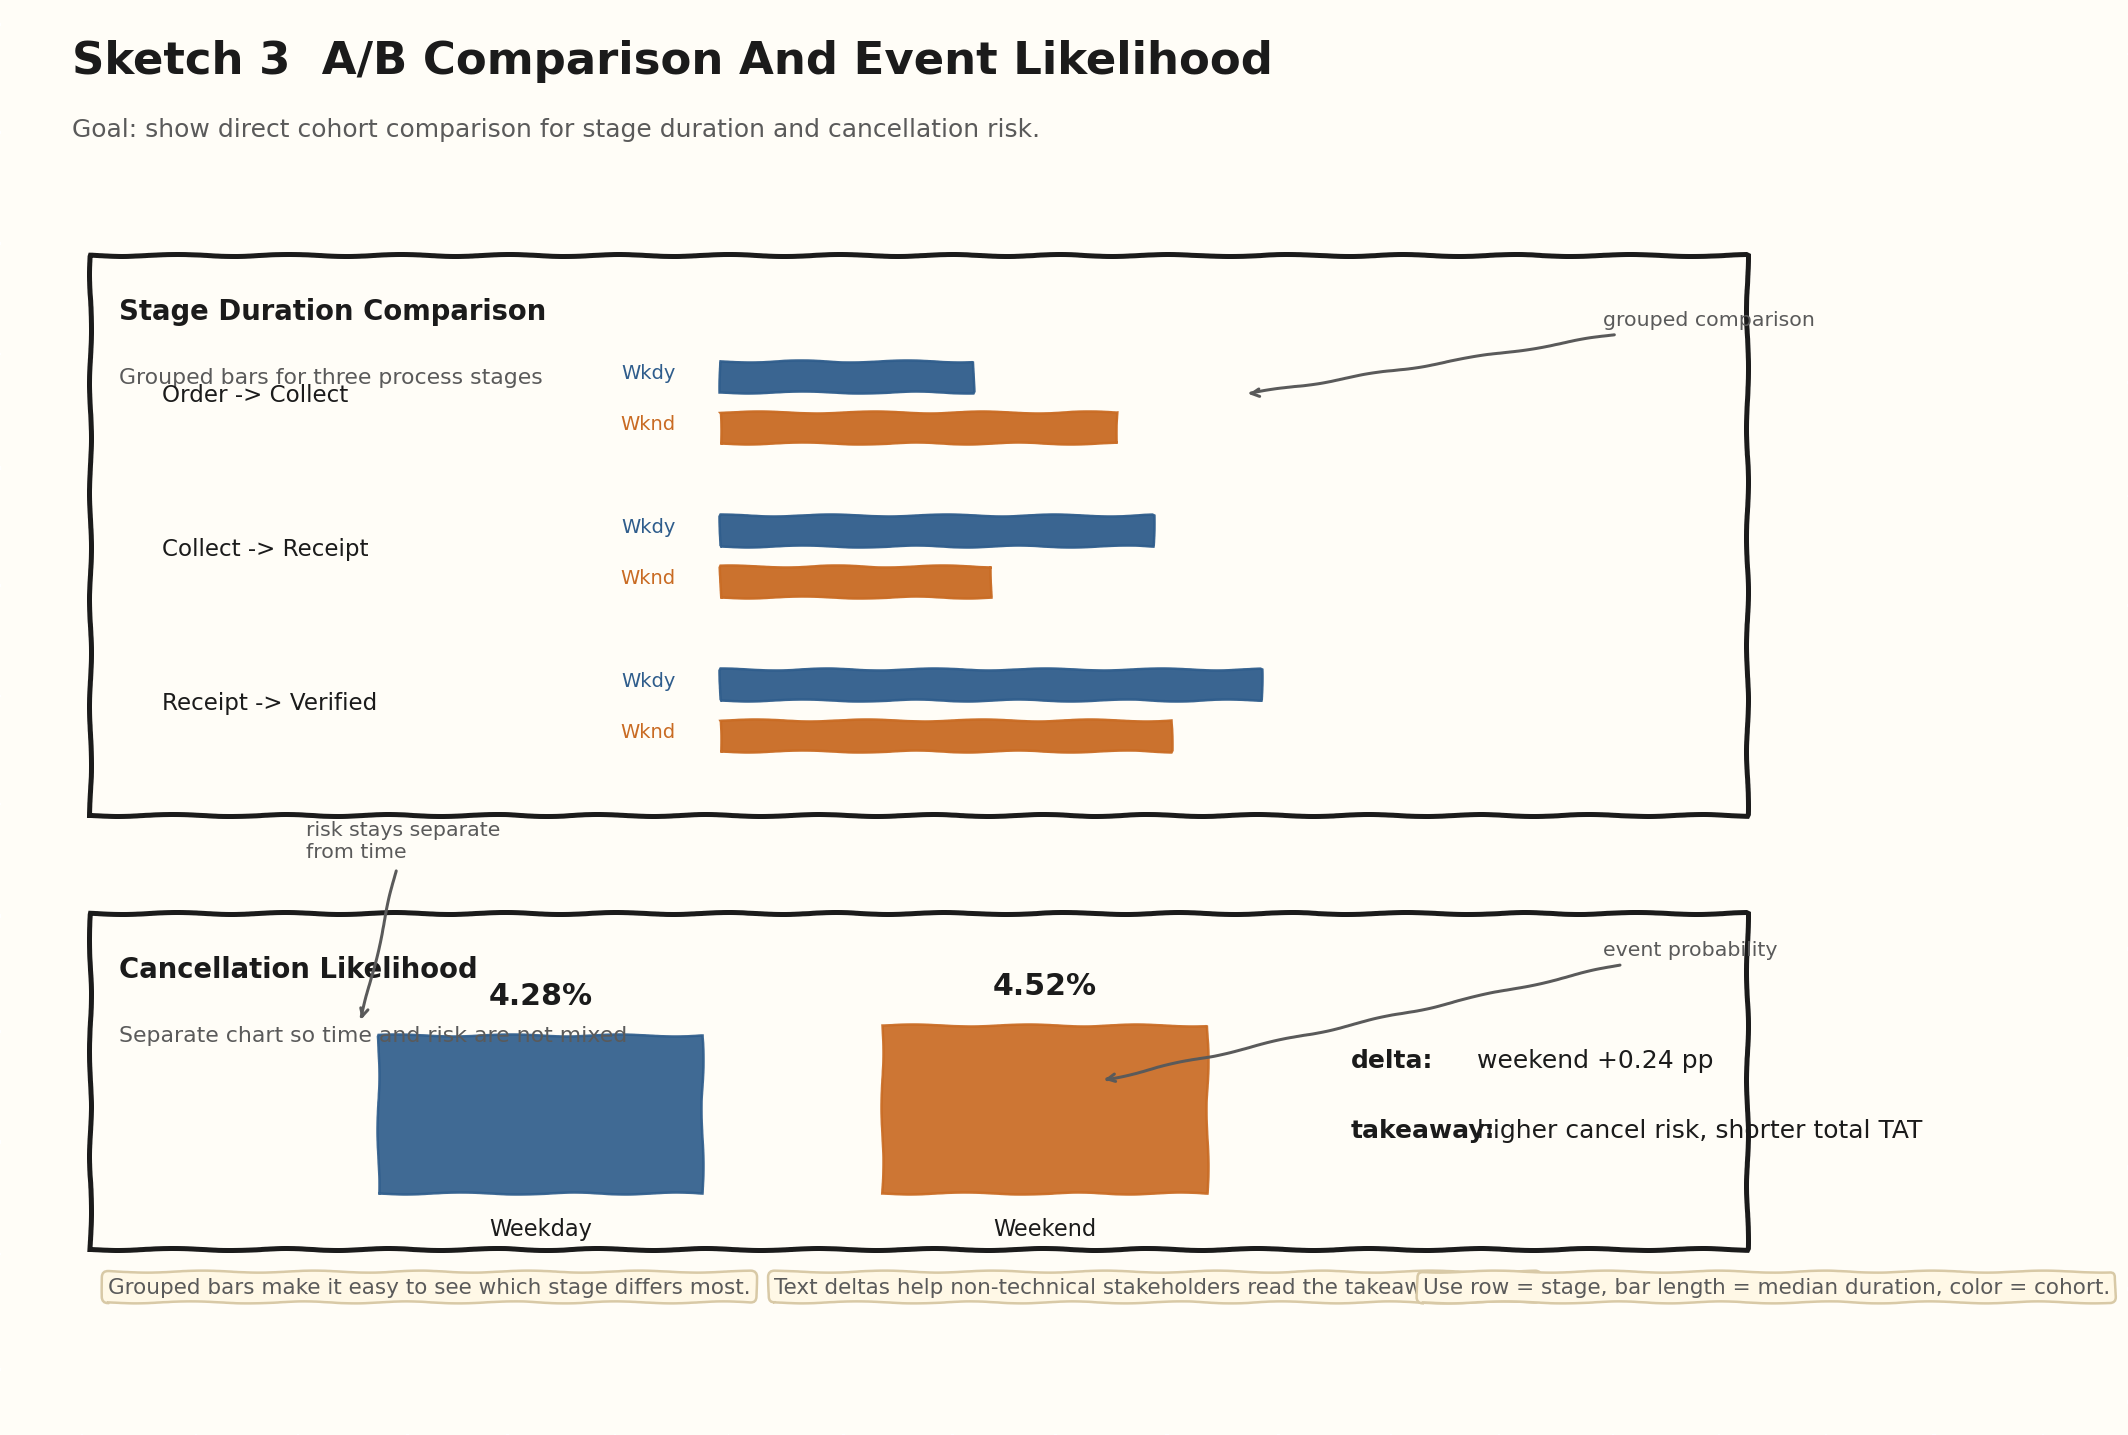
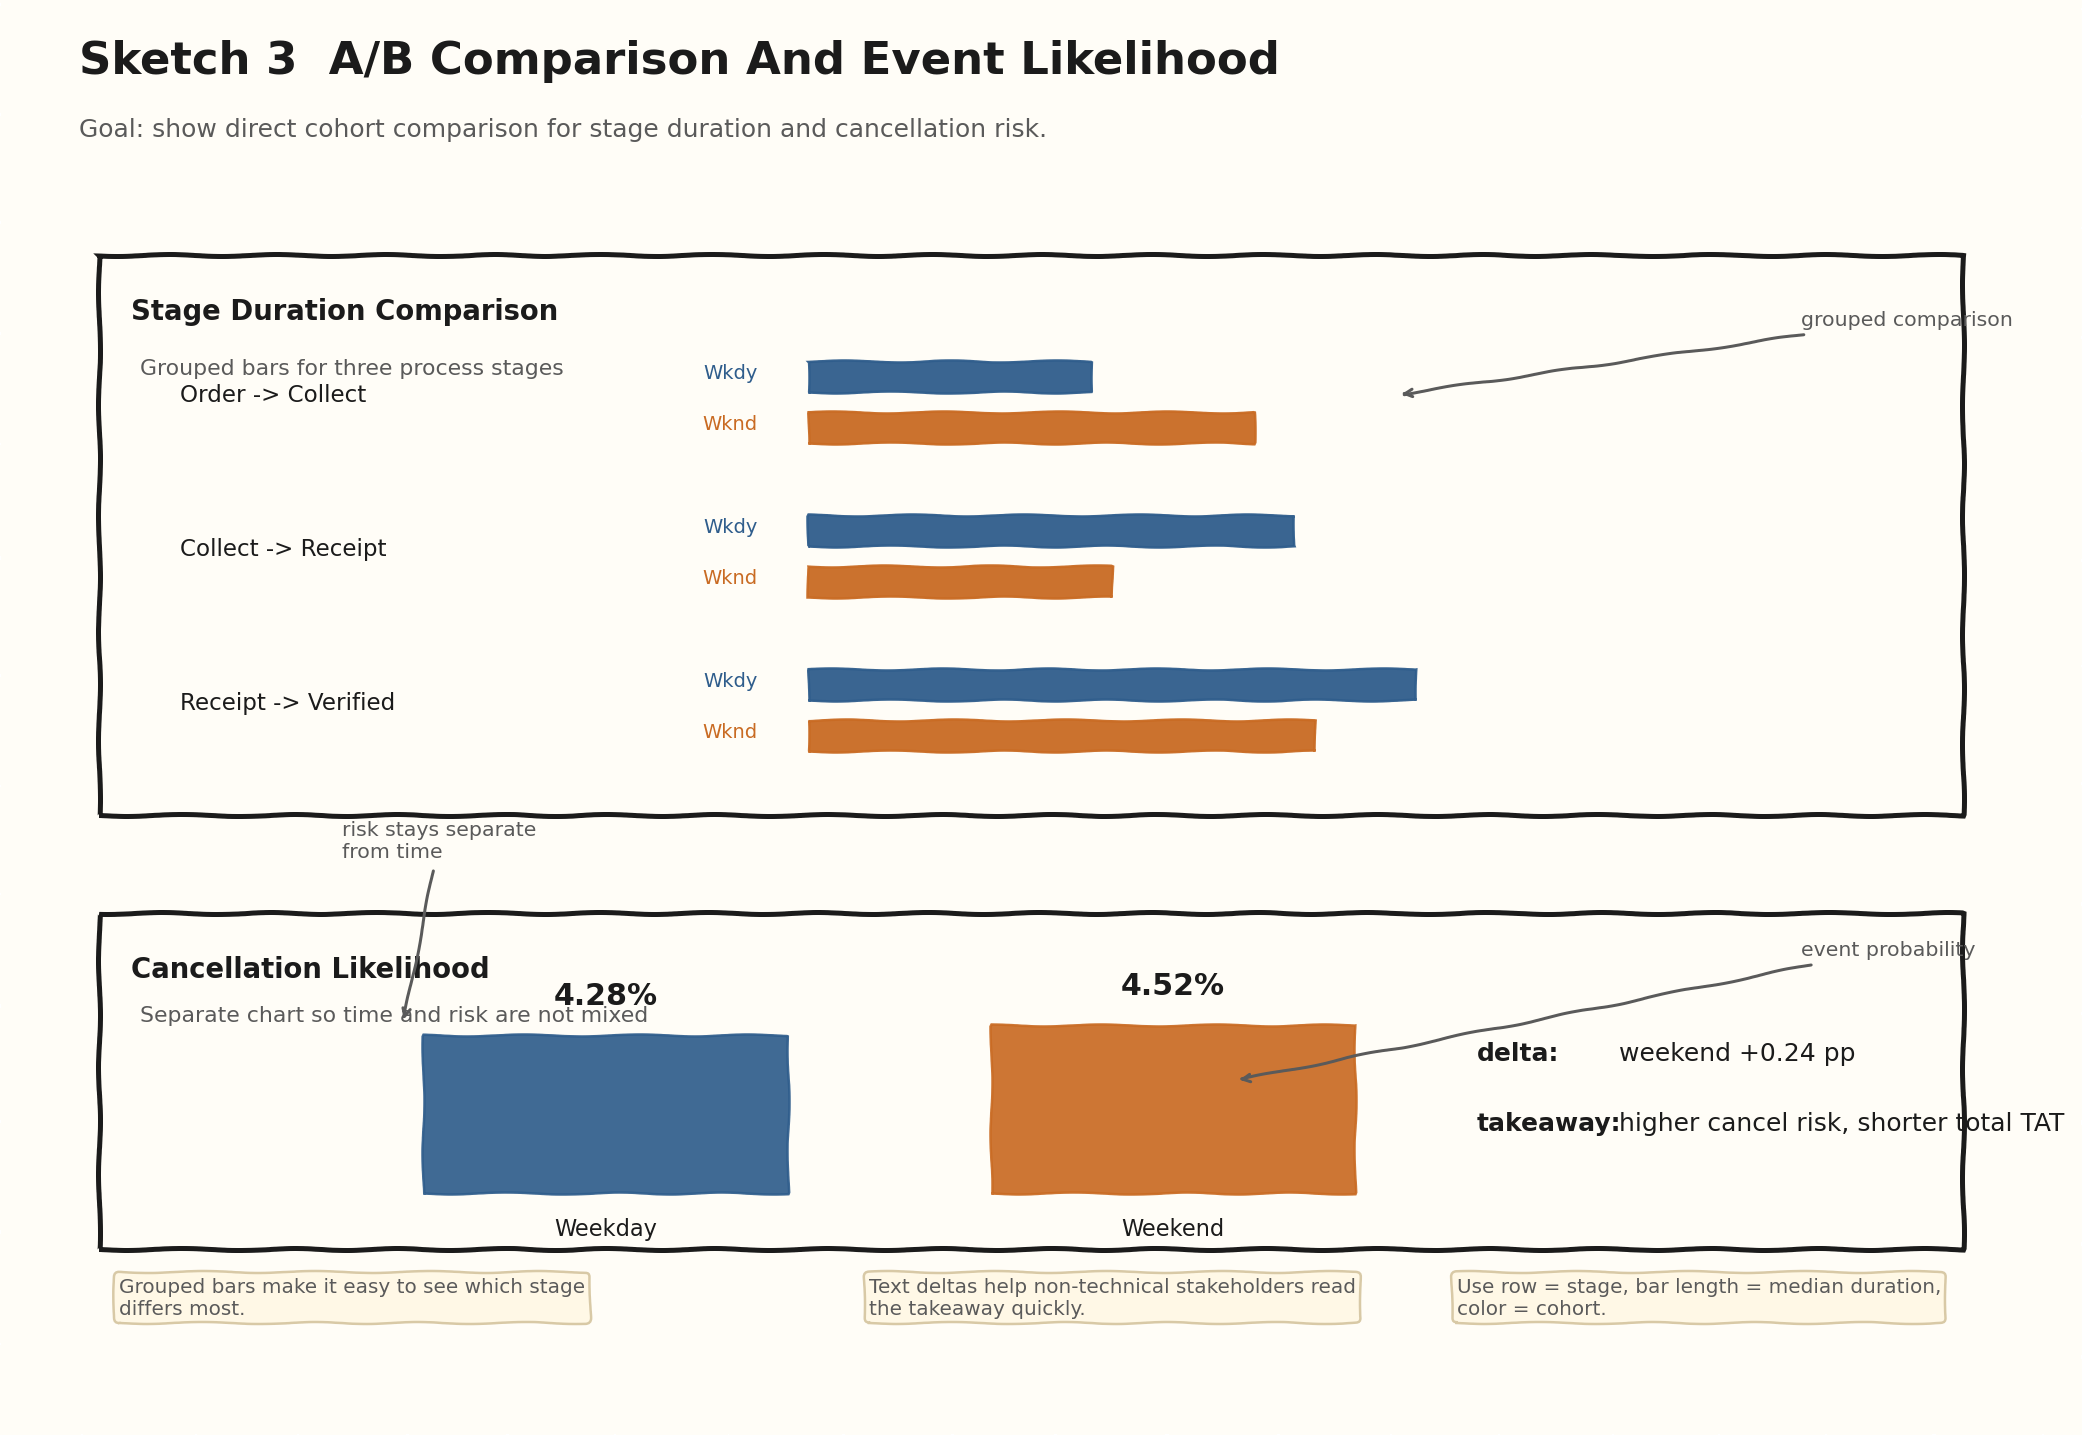
bug fix: sketch generation revise

diff --git a/scripts/generate_sketches.py b/scripts/generate_sketches.py
@@ -2,6 +2,7 @@
 from __future__ import annotations
 
 import argparse
+import textwrap
 from pathlib import Path
 
 import matplotlib
@@ -58,11 +59,12 @@ def box(ax, x, y, w, h, title, body=None, color=INK, lw=2):
 
 
 def note(ax, x, y, text):
+    wrapped = textwrap.fill(text, width=48)
     ax.text(
         x,
         y,
-        text,
-        fontsize=8.6,
+        wrapped,
+        fontsize=8.0,
         color=NOTE,
         va="top",
         bbox={"boxstyle": "round,pad=0.25", "facecolor": "#FFF8E6", "edgecolor": "#D8C9A6"},
@@ -97,58 +99,65 @@ def sketch_1_dashboard(output_path: Path):
         color=NOTE,
     )
 
-    box(ax, 3, 15, 20, 68, "Filters", "cohort, test code, street, dept, date range")
-    box(ax, 25, 48, 47, 35, "Average Journey Timeline", "ordered -> collected -> receipt -> verified")
-    box(ax, 74, 48, 23, 35, "A/B KPI Summary", "median TAT, delta, cancel rate, n")
-    box(ax, 25, 15, 47, 29, "Stage Duration Comparison", "order->collect, collect->receipt, receipt->verified")
-    box(ax, 74, 15, 23, 29, "Cancellation Likelihood", "weekday % vs weekend %")
-    box(ax, 3, 5, 94, 7, "Details on Demand", "selected cohort notes, subset description, caveats")
+    box(ax, 3, 15, 20, 68, "Filters")
+    box(ax, 25, 48, 47, 35, "Average Journey Timeline")
+    box(ax, 74, 48, 23, 35, "A/B KPI Summary")
+    box(ax, 25, 15, 47, 29, "Stage Duration Comparison")
+    box(ax, 74, 15, 23, 29, "Cancellation Likelihood")
+    box(ax, 3, 5, 94, 7, "Details on Demand")
 
-    for y, label in zip([74, 68, 62, 56, 50], ["weekday/weekend", "test code", "event street", "performing dept", "date range"]):
-        ax.text(6, y, f"- {label}", fontsize=9)
+    ax.text(6, 73.5, "cohort", fontsize=8.5, color=NOTE)
+    ax.text(6, 70.5, "- weekday / weekend", fontsize=9)
+    for y, label in zip([64, 57, 50, 43], ["test code", "event street", "performing dept", "date range"]):
+        ax.text(7.2, y, f"- {label}", fontsize=9)
+
+    ax.text(27.5, 73.5, "median elapsed hours since order", fontsize=8.4, color=NOTE)
+    ax.text(27.5, 69.8, "ordered -> collected -> receipt -> verified", fontsize=8.8, color=NOTE)
 
     timeline_y = [71, 60]
     labels = ["Weekday", "Weekend"]
-    xs = [[31, 39, 49, 63], [31, 43, 50, 66]]
+    xs = [[33, 40, 50, 63], [33, 44, 51, 66]]
     colors = [WEEKDAY_COLOR, WEEKEND_COLOR]
     for y, lab, row_xs, color in zip(timeline_y, labels, xs, colors):
         ax.text(27.5, y, lab, fontsize=9.5, fontweight="bold", color=color, va="center")
         ax.plot(row_xs, [y] * len(row_xs), color=color, linewidth=2.2)
         ax.scatter(row_xs, [y] * len(row_xs), s=28, color=color, zorder=3)
     for x, lab in zip(xs[0], ["ordered", "collected", "receipt", "verified"]):
-        ax.text(x - 2, 53, lab, fontsize=7.8, rotation=10)
+        ax.text(x - 1.5, 53.5, lab, fontsize=7.6, rotation=10)
 
-    ax.text(77, 73, "Weekday", fontsize=9.5, fontweight="bold", color=WEEKDAY_COLOR)
-    ax.text(77, 68, "Weekend", fontsize=9.5, fontweight="bold", color=WEEKEND_COLOR)
-    ax.text(77, 62, "Median TAT", fontsize=9)
-    ax.text(90, 62, "1.75h / 1.10h", fontsize=9, ha="right")
-    ax.text(77, 57, "Cancel rate", fontsize=9)
-    ax.text(90, 57, "4.28% / 4.52%", fontsize=9, ha="right")
-    ax.text(77, 52, "Delta", fontsize=9)
-    ax.text(90, 52, "weekend -0.65h", fontsize=9, ha="right")
+    ax.text(77, 73, "A: Weekday", fontsize=9.2, fontweight="bold", color=WEEKDAY_COLOR)
+    ax.text(77, 68, "B: Weekend", fontsize=9.2, fontweight="bold", color=WEEKEND_COLOR)
+    ax.text(77, 61.5, "Median TAT", fontsize=8.8)
+    ax.text(95, 61.5, "1.75h / 1.10h", fontsize=8.8, ha="right")
+    ax.text(77, 56.5, "Cancel rate", fontsize=8.8)
+    ax.text(95, 56.5, "4.28% / 4.52%", fontsize=8.8, ha="right")
+    ax.text(77, 51.5, "Delta", fontsize=8.8)
+    ax.text(95, 51.5, "weekend -0.65h", fontsize=8.8, ha="right")
 
     stage_names = ["Order->Collect", "Collect->Receipt", "Receipt->Verified"]
-    centers = [37, 31, 25]
-    weekday_vals = [10, 21, 28]
-    weekend_vals = [18, 13, 22]
+    centers = [36, 29.5, 23]
+    weekday_vals = [8.5, 18, 24]
+    weekend_vals = [15, 10.5, 19]
     for y, stage, wv, ev in zip(centers, stage_names, weekday_vals, weekend_vals):
-        ax.text(27.5, y + 1.6, stage, fontsize=8.6)
-        ax.add_patch(Rectangle((48, y), wv, 1.8, color=WEEKDAY_COLOR, alpha=0.9))
-        ax.add_patch(Rectangle((48, y - 2.7), ev, 1.8, color=WEEKEND_COLOR, alpha=0.9))
+        ax.text(27.5, y + 1.3, stage, fontsize=8.4)
+        ax.add_patch(Rectangle((45.5, y), wv, 1.7, color=WEEKDAY_COLOR, alpha=0.9))
+        ax.add_patch(Rectangle((45.5, y - 2.6), ev, 1.7, color=WEEKEND_COLOR, alpha=0.9))
 
-    ax.add_patch(Rectangle((79, 24), 8.5, 10.5, color=WEEKDAY_COLOR, alpha=0.92))
-    ax.add_patch(Rectangle((89, 24), 8.5, 11.1, color=WEEKEND_COLOR, alpha=0.92))
-    ax.text(83.2, 21.5, "Weekday", fontsize=8.3, ha="center")
-    ax.text(93.2, 21.5, "Weekend", fontsize=8.3, ha="center")
+    ax.text(77, 35, "weekday % vs weekend %", fontsize=8.4, color=NOTE)
+    ax.add_patch(Rectangle((79, 23.5), 7.4, 10.5, color=WEEKDAY_COLOR, alpha=0.92))
+    ax.add_patch(Rectangle((88.5, 23.5), 7.4, 11.1, color=WEEKEND_COLOR, alpha=0.92))
+    ax.text(82.7, 21.2, "Weekday", fontsize=7.8, ha="center")
+    ax.text(92.2, 21.2, "Weekend", fontsize=7.8, ha="center")
 
     arrow_label(ax, 12, 86, 19.5, 76, "interactive filters")
     arrow_label(ax, 57, 88, 51, 73.5, "main answer lives here")
     arrow_label(ax, 94, 85, 90, 65, "fast summary")
     arrow_label(ax, 60, 8.5, 50, 10.5, "details on demand")
 
-    note(ax, 5, 97, "Main timeline is centered because the client asked for an inspectable average timeline.")
-    note(ax, 65, 97, "Cancellation is kept separate from timing so risk is not confused with duration.")
-    note(ax, 6, 13, "Use color for cohort. Use x-position and bar length for time.")
+    note(ax, 5, 10.5, "Use color for cohort. Use x-position and bar length for time.")
+    note(ax, 34, 10.5, "Main timeline is centered because the client asked for an inspectable average timeline.")
+    note(ax, 71, 10.5, "Cancellation is kept separate from timing so risk is not confused with duration.")
+    ax.text(5, 2.8, "selected cohort notes, subset description, caveats", fontsize=8.3, color=NOTE)
 
     save(fig, output_path)
 
@@ -198,10 +207,10 @@ def sketch_2_timeline(output_path: Path):
     arrow_label(ax, 77, 31, 56, 38, "shorter total time here")
     arrow_label(ax, 64, 87, 62, 78, "shared time axis")
 
-    note(ax, 5, 25, "A milestone timeline preserves sequence better than stacked bars.")
-    note(ax, 42, 25, "Distance between points shows where the delay occurs.")
-    note(ax, 73, 25, "This directly answers the client's request for a graphic timeline.")
-    note(ax, 5, 16, "Alternative considered: stacked stage bars. Not chosen as the main view because the event sequence is less explicit.")
+    note(ax, 5, 20, "A milestone timeline preserves sequence better than stacked bars.")
+    note(ax, 5, 11.5, "Alternative considered: stacked stage bars. Not chosen as the main view because the event sequence is less explicit.")
+    note(ax, 55, 20, "Distance between points shows where the delay occurs.")
+    note(ax, 55, 11.5, "This directly answers the client's request for a graphic timeline.")
 
     save(fig, output_path)
 
@@ -217,7 +226,8 @@ def sketch_3_ab(output_path: Path):
         color=NOTE,
     )
 
-    box(ax, 4, 43, 92, 40, "Stage Duration Comparison", "Grouped bars for three process stages")
+    box(ax, 4, 43, 92, 40, "Stage Duration Comparison")
+    ax.text(6, 74.5, "Grouped bars for three process stages", fontsize=8.8, color=NOTE)
     stages = ["Order -> Collect", "Collect -> Receipt", "Receipt -> Verified"]
     y_rows = [72, 61, 50]
     weekday_vals = [14, 24, 30]
@@ -230,7 +240,8 @@ def sketch_3_ab(output_path: Path):
         ax.text(36.5, y + 2.2, "Wkdy", fontsize=7.8, ha="right", color=WEEKDAY_COLOR)
         ax.text(36.5, y - 1.4, "Wknd", fontsize=7.8, ha="right", color=WEEKEND_COLOR)
 
-    box(ax, 4, 12, 92, 24, "Cancellation Likelihood", "Separate chart so time and risk are not mixed")
+    box(ax, 4, 12, 92, 24, "Cancellation Likelihood")
+    ax.text(6, 28.3, "Separate chart so time and risk are not mixed", fontsize=8.8, color=NOTE)
     ax.add_patch(Rectangle((20, 16), 18, 11.3, color=WEEKDAY_COLOR, alpha=0.92))
     ax.add_patch(Rectangle((48, 16), 18, 12.0, color=WEEKEND_COLOR, alpha=0.92))
     ax.text(29, 29.5, "4.28%", fontsize=12, color=INK, ha="center", fontweight="bold")
@@ -238,10 +249,10 @@ def sketch_3_ab(output_path: Path):
     ax.text(29, 13, "Weekday", fontsize=9, ha="center")
     ax.text(57, 13, "Weekend", fontsize=9, ha="center")
 
-    ax.text(74, 25, "delta:", fontsize=10, fontweight="bold")
-    ax.text(81, 25, "weekend +0.24 pp", fontsize=10)
-    ax.text(74, 20, "takeaway:", fontsize=10, fontweight="bold")
-    ax.text(81, 20, "higher cancel risk, shorter total TAT", fontsize=10)
+    ax.text(72, 25.5, "delta:", fontsize=10, fontweight="bold")
+    ax.text(79, 25.5, "weekend +0.24 pp", fontsize=10)
+    ax.text(72, 20.5, "takeaway:", fontsize=10, fontweight="bold")
+    ax.text(79, 20.5, "higher cancel risk, shorter total TAT", fontsize=10)
 
     arrow_label(ax, 88, 78, 68, 73, "grouped comparison")
     arrow_label(ax, 88, 33, 60, 24, "event probability")
@@ -249,7 +260,7 @@ def sketch_3_ab(output_path: Path):
 
     note(ax, 5, 10, "Grouped bars make it easy to see which stage differs most.")
     note(ax, 42, 10, "Text deltas help non-technical stakeholders read the takeaway quickly.")
-    note(ax, 78, 10, "Use row = stage, bar length = median duration, color = cohort.")
+    note(ax, 71, 10, "Use row = stage, bar length = median duration, color = cohort.")
 
     save(fig, output_path)
 
